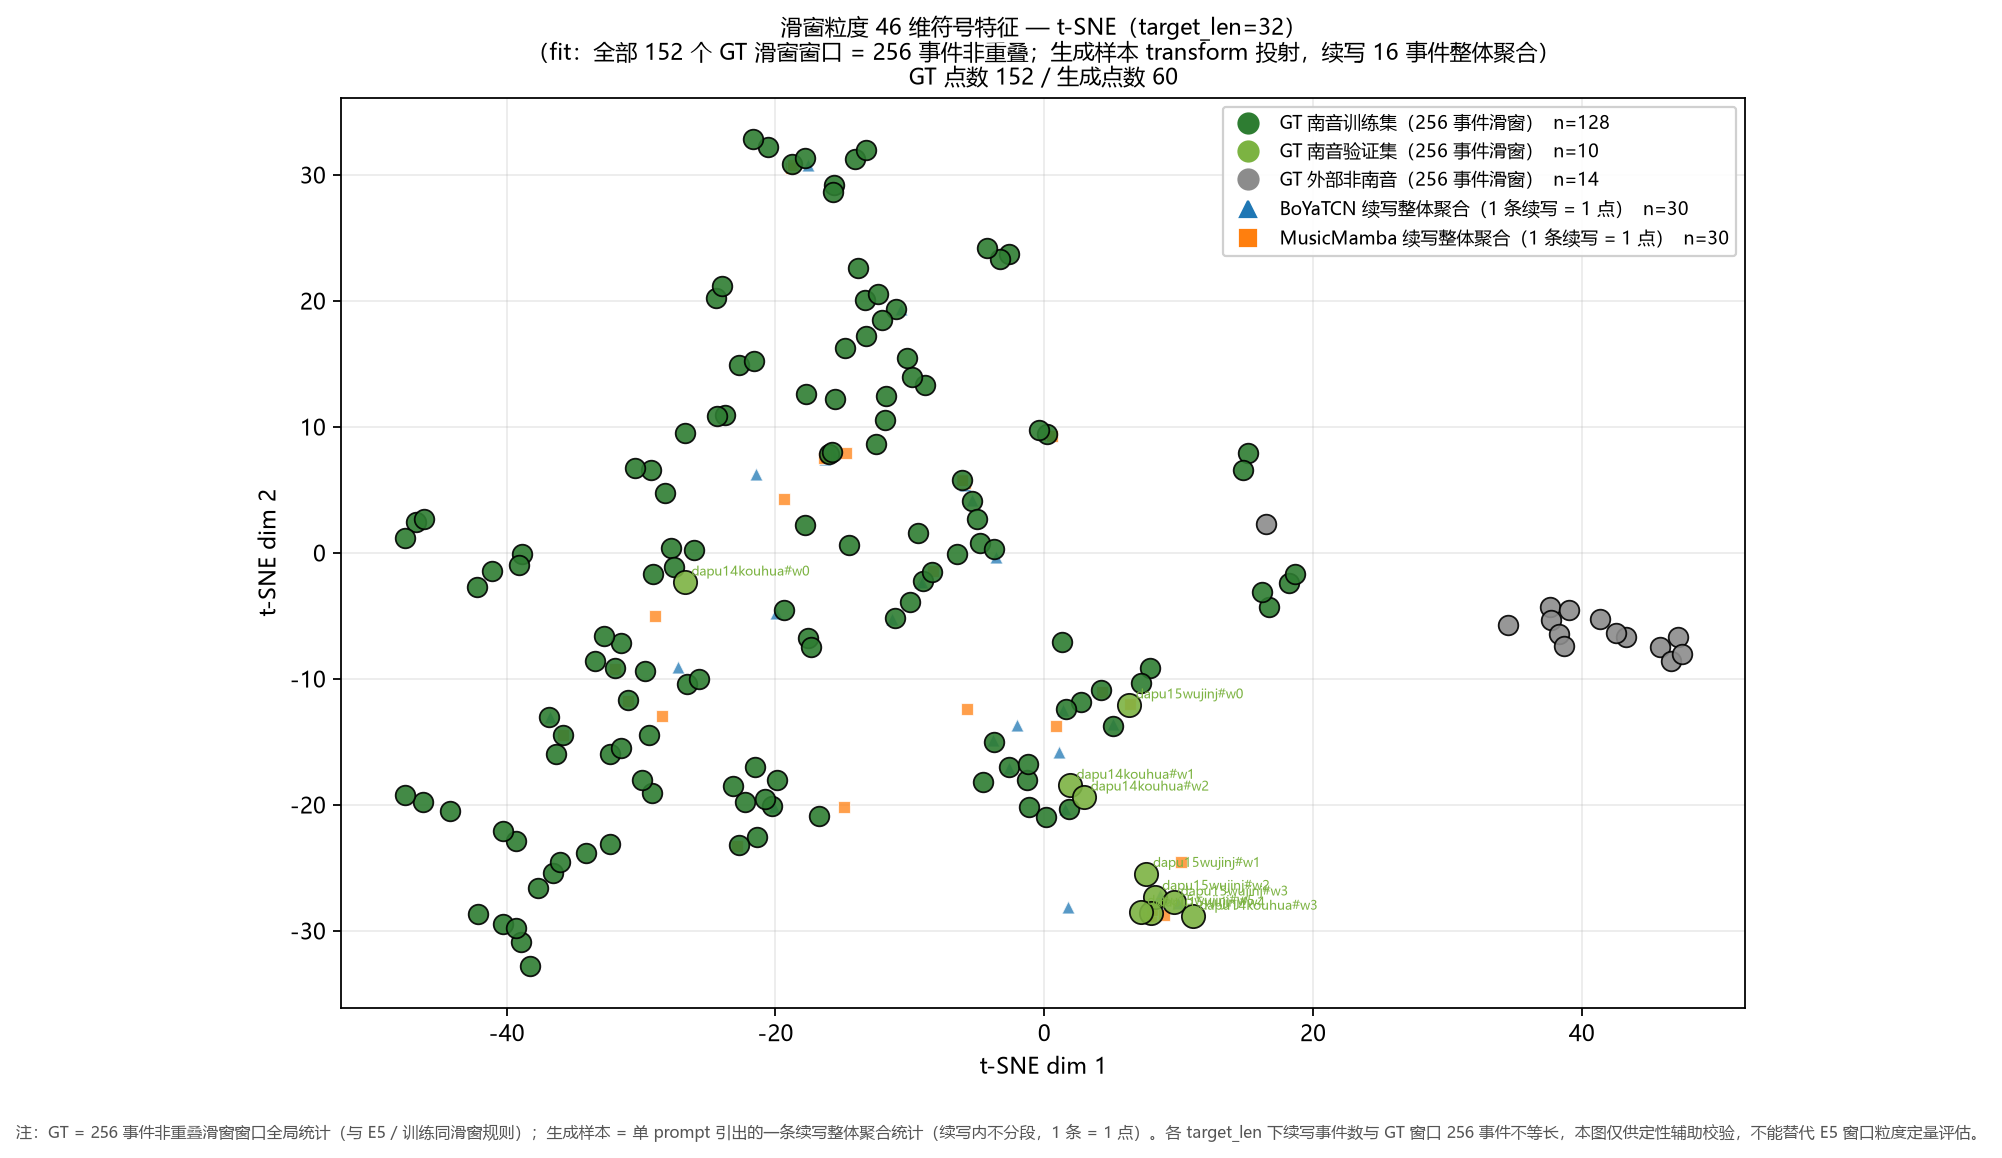
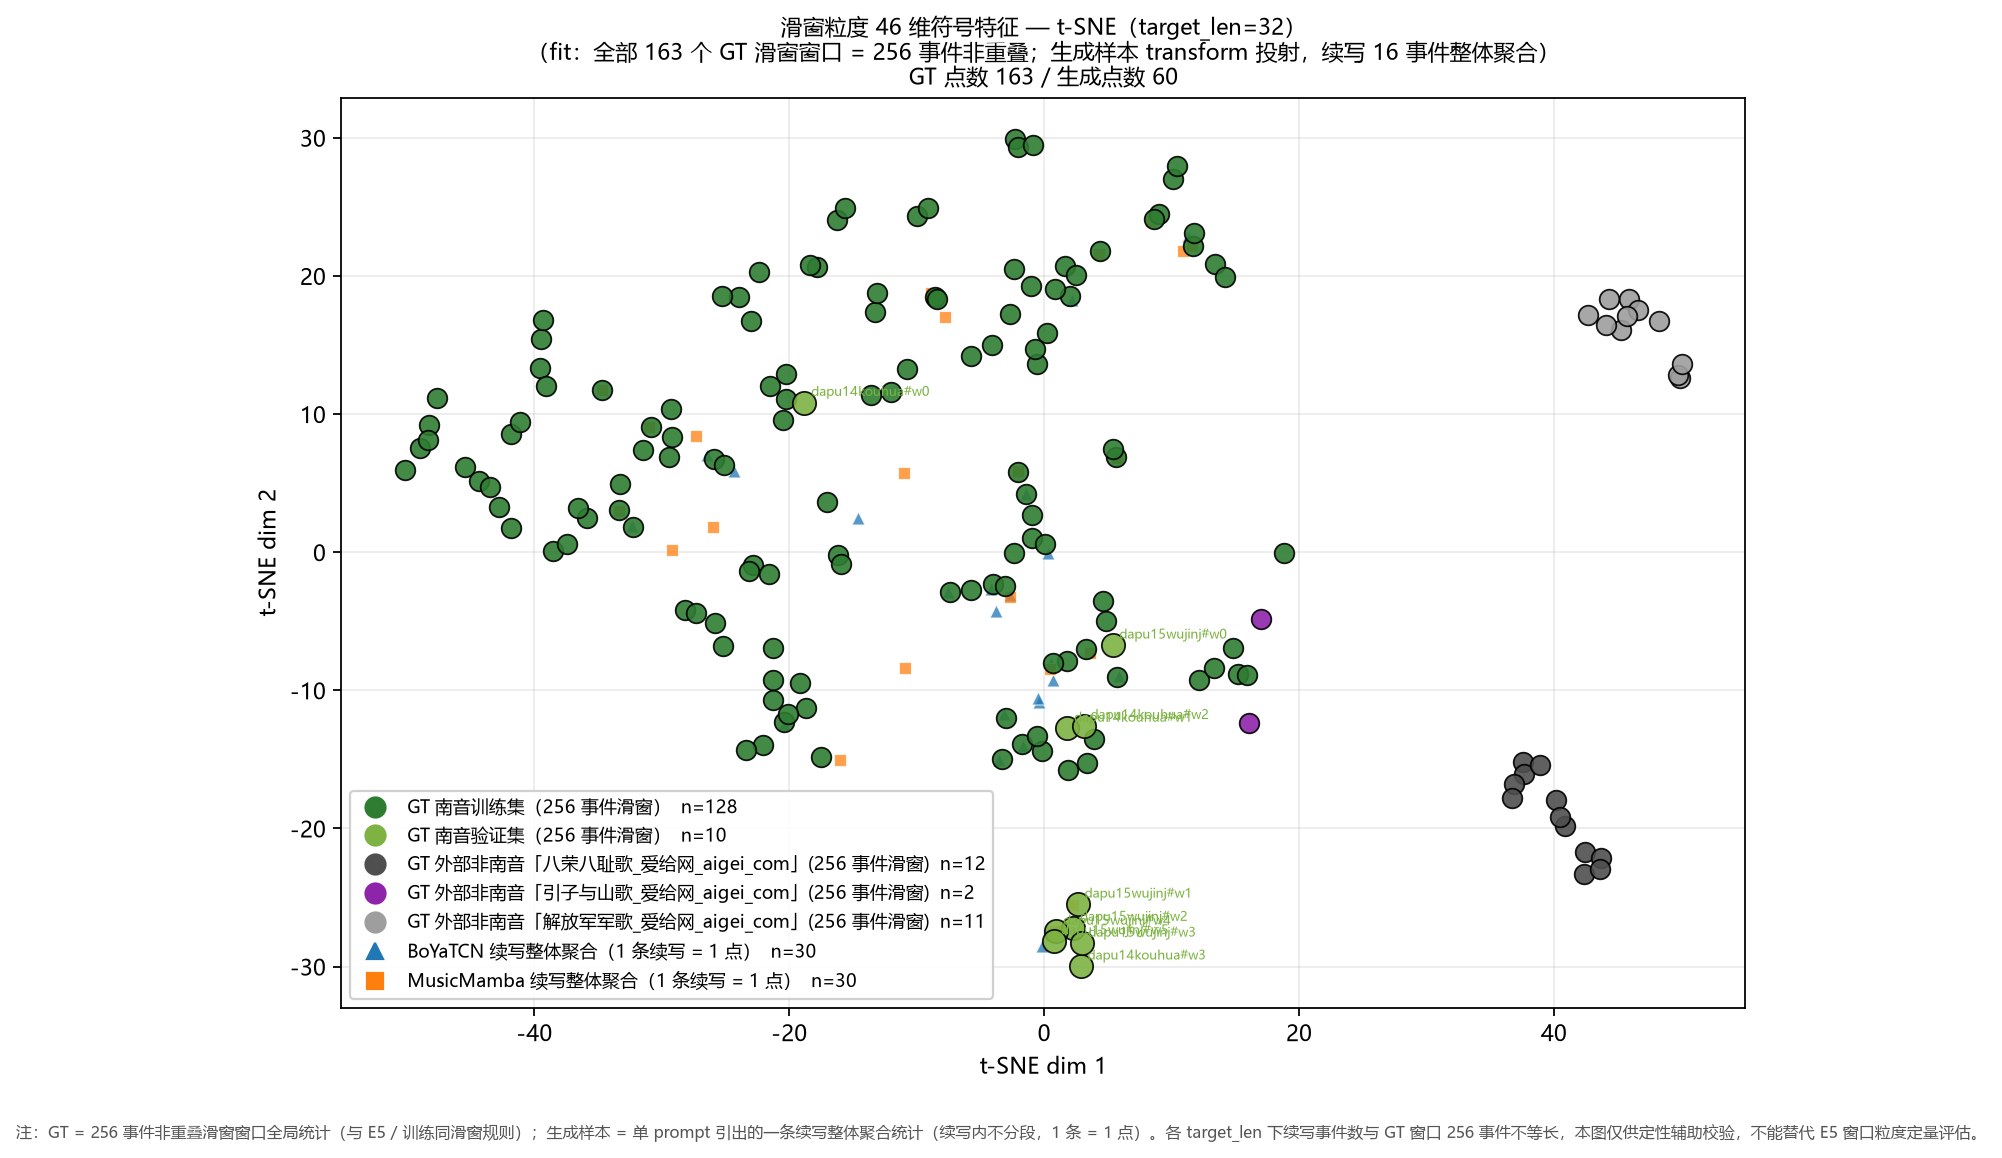
feat(E5-vis): 纳入新增外部曲目解放军军歌(mido clip容错解析脏MIDI)；外部曲目按曲分色；GT滑窗152→163(外部25)；记录三首外部分离的客观距离

diff --git a/visualize_fullsong_reduction.py b/visualize_fullsong_reduction.py
@@ -81,6 +81,8 @@ DEFAULT_EXTERNAL_DIR = os.path.join(_SCRIPT_DIR, "古典曲")
 
 # 类别 → 视觉编码（颜色区分数据类别/模型，形状区分 GT 与生成模型）
 CATEGORY_ORDER = ["GT_train", "GT_val", "GT_external", "boyatcn", "musicmamba"]
+# 外部非南音曲目按曲目轮转取色（灰度/冷色系，与绿色 GT、蓝橙生成明显区分）
+EXT_PALETTE = ["#4F4F4F", "#8E24AA", "#9E9E9E", "#6D4C41", "#00838F", "#455A64"]
 STYLE = {
     "GT_train":    {"color": "#2E7D32", "marker": "o", "size": 78,  "edge": "black"},
     "GT_val":      {"color": "#7CB342", "marker": "o", "size": 110, "edge": "black"},
@@ -159,9 +161,33 @@ def _notes_from_midi(midi_path: str) -> list:
     """用 pretty_midi 解析任意 MIDI（含外部非南音曲目）→ 音符列表。
 
     与 dataset_nanyin.load_song_annotations 同口径：合并全部轨道音符，按 (start, pitch) 升序。
+    下载站 MIDI 偶有"数据字节越界"（data byte must be in range 0..127）等脏数据，
+    pretty_midi / mido 严格模式会直接抛错；此处退化为 mido(clip=True) 容错重序列化
+    后再交给 pretty_midi，保证与其他曲目走**完全相同**的后续编解码与特征口径。
     """
+    import tempfile
     import pretty_midi
-    pm = pretty_midi.PrettyMIDI(midi_path)
+
+    try:
+        pm = pretty_midi.PrettyMIDI(midi_path)
+    except Exception as e_pm:
+        try:
+            import mido
+            mid = mido.MidiFile(midi_path, clip=True)   # clip=True：越界数据字节截断到 0..127
+            tmp_dir = tempfile.mkdtemp(prefix="e5_vis_midi_")
+            tmp_mid = os.path.join(tmp_dir, "sanitized.mid")
+            mid.save(tmp_mid)
+            pm = pretty_midi.PrettyMIDI(tmp_mid)
+            print(f"[fullsong-vis] MIDI 存在脏数据({type(e_pm).__name__}: {e_pm})，"
+                  f"已用 mido(clip=True) 容错重解析: {os.path.basename(midi_path)}")
+        except ImportError:
+            raise RuntimeError(
+                f"[fullsong-vis] MIDI 解析失败且未安装 mido，无法容错处理: {midi_path}")
+        except Exception as e2:
+            raise RuntimeError(
+                f"[fullsong-vis] MIDI 容错解析仍失败: {midi_path} "
+                f"({type(e2).__name__}: {e2})")
+
     notes = []
     for inst in pm.instruments:
         for n in inst.notes:
@@ -326,27 +352,43 @@ def _draw(xy_gt: np.ndarray, xy_gen: np.ndarray, gt: list, gen: list,
     _use_cjk_font()
     fig, ax = plt.subplots(figsize=(9.6, 7.2), dpi=160)
 
-    by_cat = {}
+    def _group_key(s: dict) -> str:
+        """外部非南音按**曲目**拆色（便于观察不同外来曲目是否相互分离）。"""
+        if s["category"] == "GT_external":
+            return f"GT_external::{s['song_id']}"
+        return s["category"]
+
+    by_cat: dict = {}
     for i, s in enumerate(gt):
-        by_cat.setdefault(s["category"], []).append(("gt", i, s))
+        by_cat.setdefault(_group_key(s), []).append(("gt", i, s))
     for i, s in enumerate(gen):
         by_cat.setdefault(s["category"], []).append(("gen", i, s))
 
+    ext_keys = sorted(k for k in by_cat if k.startswith("GT_external::"))
+    ext_color = {k: EXT_PALETTE[i % len(EXT_PALETTE)] for i, k in enumerate(ext_keys)}
+    draw_order = ["GT_train", "GT_val"] + ext_keys + ["boyatcn", "musicmamba"]
+
     handles = []
-    for cat in CATEGORY_ORDER:
+    for cat in draw_order:
         items = by_cat.get(cat, [])
         if not items:
             continue
-        st = STYLE[cat]
+        if cat.startswith("GT_external::"):
+            st = STYLE["GT_external"]
+            color = ext_color[cat]
+            label = f"GT 外部非南音「{cat.split('::', 1)[1]}」(256 事件滑窗)  n={len(items)}"
+        else:
+            st = STYLE[cat]
+            color = st["color"]
+            label = f"{LABEL[cat]}  n={len(items)}"
         pts = [xy_gt[i] if kind == "gt" else xy_gen[i] for kind, i, _ in items]
         xy = np.asarray(pts)
-        ax.scatter(xy[:, 0], xy[:, 1], s=st["size"], c=st["color"],
+        ax.scatter(xy[:, 0], xy[:, 1], s=st["size"], c=color,
                    marker=st["marker"], alpha=0.9 if cat.startswith("GT") else 0.75,
                    edgecolors=st["edge"], linewidths=0.8 if cat.startswith("GT") else 0.5,
                    zorder=3 if cat.startswith("GT") else 2)
-        handles.append(Line2D([], [], marker=st["marker"], ls="", color=st["color"],
-                              markersize=9 if cat.startswith("GT") else 7,
-                              label=f"{LABEL[cat]}  n={len(items)}"))
+        handles.append(Line2D([], [], marker=st["marker"], ls="", color=color,
+                              markersize=9 if cat.startswith("GT") else 7, label=label))
 
         # 仅标注验证集 GT 滑窗（生成样本的来源曲目），避免图上文字过密
         if cat == "GT_val":
